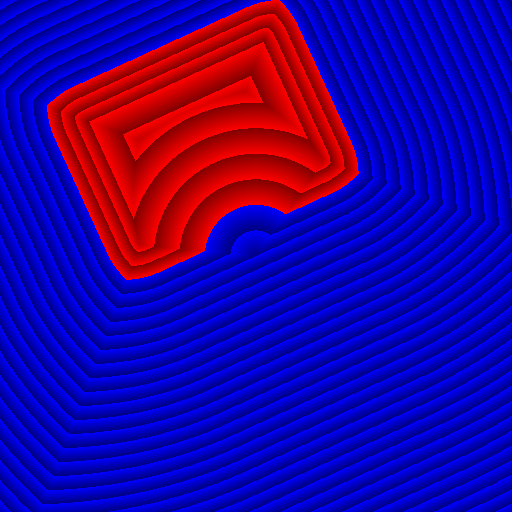
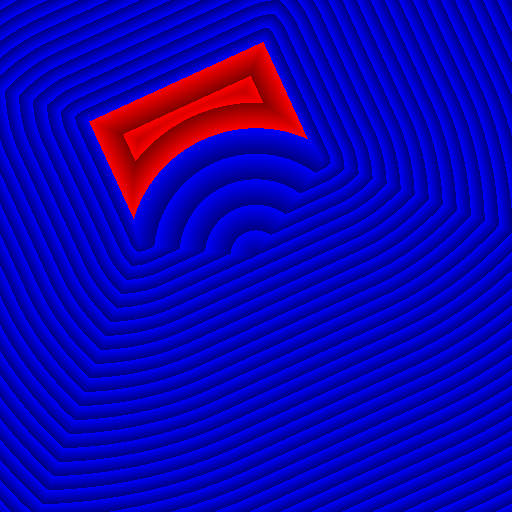
Added some stuff

Changed region(s): [[0.0938, 0.0, 0.7188, 0.5625]]

diff --git a/src/objects/operators.rs b/src/objects/operators.rs
@@ -1,7 +1,11 @@
 use math_vector::Vector;
+
+/// This operator rounds the edges of functions
 pub struct Smooth {
+    /// The SDF, that will be smoothed
     pub sdf: Box<dyn super::SignedDistanceField>,
-    pub k: f64
+    /// Smoothing factor by which the SDF will be smoothed
+    pub k: f64,
 }
 impl super::SignedDistanceField for Smooth {
     fn call(&self, p: Vector<f64>) -> f64 {
@@ -9,12 +13,13 @@ impl super::SignedDistanceField for Smooth {
     }
 }
 
+/// The operators in this module apply linear transforms to the input SDF
 pub mod transforms {
     use math_vector::Vector;
     /// Translate a SDF by p
     pub struct Translate {
         pub p: Vector<f64>,
-        pub sdf: Box<dyn super::super::SignedDistanceField>
+        pub sdf: Box<dyn super::super::SignedDistanceField>,
     }
     impl super::super::SignedDistanceField for Translate {
         fn call(&self, p: Vector<f64>) -> f64 {
@@ -29,7 +34,7 @@ pub mod transforms {
         /// The axis around which the SDF will be rotated
         pub axis: Vector<f64>,
         /// The SDF, that will be rotated
-        pub sdf: Box<dyn super::super::SignedDistanceField>
+        pub sdf: Box<dyn super::super::SignedDistanceField>,
     }
     impl super::super::SignedDistanceField for Rotate {
         fn call(&self, p: Vector<f64>) -> f64 {
@@ -37,41 +42,43 @@ pub mod transforms {
         }
     }
 
-    /// Scale a SDF by the vector 
+    /// Scale a SDF by the vector
     pub struct Scale {
         pub scale: Vector<f64>,
-        pub sdf: Box<dyn super::super::SignedDistanceField>
+        pub sdf: Box<dyn super::super::SignedDistanceField>,
     }
     impl super::super::SignedDistanceField for Scale {
         fn call(&self, p: Vector<f64>) -> f64 {
-            self.sdf.call(Vector { 
-                x: p.x * self.scale.x, 
-                y: p.y * self.scale.y, 
-                z: 0.0 
+            self.sdf.call(Vector {
+                x: p.x * self.scale.x,
+                y: p.y * self.scale.y,
+                z: 0.0,
             })
         }
     }
 
-    /// Multiplies a SDF by a matrix 
+    /// Multiplies a SDF by a matrix
     pub struct Matrix {
         pub matrix: [[f64; 2]; 2],
-        pub sdf: Box<dyn super::super::SignedDistanceField>
+        pub sdf: Box<dyn super::super::SignedDistanceField>,
     }
     impl super::super::SignedDistanceField for Matrix {
         fn call(&self, p: Vector<f64>) -> f64 {
-            self.sdf.call(Vector { 
-                x: self.matrix[0][0] * p.x + self.matrix[0][1] * p.y, 
-                y: self.matrix[1][0] * p.x + self.matrix[1][1] * p.y, 
-                z: 0.0 
+            self.sdf.call(Vector {
+                x: self.matrix[0][0] * p.x + self.matrix[0][1] * p.y,
+                y: self.matrix[1][0] * p.x + self.matrix[1][1] * p.y,
+                z: 0.0,
             })
         }
     }
 }
 
+/// Use boolean logic operators on SDFs
 pub mod boolean {
+    /// Create a union of the SDFs (`a ∪ b`)
     pub struct Union {
         pub a: Box<dyn super::super::SignedDistanceField>,
-        pub b: Box<dyn super::super::SignedDistanceField>
+        pub b: Box<dyn super::super::SignedDistanceField>,
     }
     impl super::super::SignedDistanceField for Union {
         fn call(&self, p: math_vector::Vector<f64>) -> f64 {
@@ -79,9 +86,10 @@ pub mod boolean {
         }
     }
 
+    /// Create a intersection of the SDFs (`a ∩ b`)
     pub struct Intersection {
         pub a: Box<dyn super::super::SignedDistanceField>,
-        pub b: Box<dyn super::super::SignedDistanceField>
+        pub b: Box<dyn super::super::SignedDistanceField>,
     }
     impl super::super::SignedDistanceField for Intersection {
         fn call(&self, p: math_vector::Vector<f64>) -> f64 {
@@ -89,15 +97,13 @@ pub mod boolean {
         }
     }
 
+    /// Create the negative of a SDFs (`¬a`)
     pub struct Not {
-        pub a: Box<dyn super::super::SignedDistanceField>,
-        pub b: Box<dyn super::super::SignedDistanceField>
+        pub sdf: Box<dyn super::super::SignedDistanceField>,
     }
     impl super::super::SignedDistanceField for Not {
         fn call(&self, p: math_vector::Vector<f64>) -> f64 {
-            let a = self.a.call(p);
-            let b = self.b.call(p);
-            -a.min(-b)
+            -self.sdf.call(p)
         }
     }
 }

diff --git a/src/render/mod.rs b/src/render/mod.rs
@@ -6,19 +6,18 @@ use crate::{objects::SignedDistanceField, Domain};
 
 /// Renders a SDF into a images
 pub fn image(
-        sdf: &dyn SignedDistanceField,
-        domain: &Domain,
-        color_mapper: &dyn Fn(&f64) -> Rgb<u8> 
-    ) -> RgbImage {
-    
+    sdf: &dyn SignedDistanceField,
+    domain: &Domain,
+    color_mapper: &dyn Fn(&f64) -> Rgb<u8>,
+) -> RgbImage {
     let matrix = matrix(sdf, domain);
-    
+
     ImageBuffer::from_fn(
         domain.steps.x as u32,
         domain.steps.y as u32,
         |x: u32, y: u32| -> Rgb<u8> {
             color_mapper(matrix.get(x as usize).unwrap().get(y as usize).unwrap())
-        }
+        },
     )
 }
 
@@ -82,13 +81,12 @@ pub fn image(
 ///
 /// ```
 pub fn text(
-        sdf: &dyn SignedDistanceField, 
-        domain: &Domain,
-        text_mapper: &dyn Fn(&f64) -> char
-    ) -> String {
-   
+    sdf: &dyn SignedDistanceField,
+    domain: &Domain,
+    text_mapper: &dyn Fn(&f64) -> char,
+) -> String {
     let matrix = matrix(sdf, domain);
-    
+
     let mut s = String::new();
     for j in 0..domain.steps.y {
         for i in 0..domain.steps.x {
@@ -97,15 +95,14 @@ pub fn text(
         }
         s.push('\n');
     }
-    
-    s
 
+    s
 }
 
 /// Renders a SDF into a matrix
 pub fn matrix(sdf: &dyn SignedDistanceField, domain: &Domain) -> Vec<Vec<f64>> {
     let mut matrix = Vec::new();
-    
+
     for x in linspace(domain.p0.x, domain.p1.x, domain.steps.x) {
         matrix.push(Vec::new());
         for y in linspace(domain.p0.y, domain.p1.y, domain.steps.y) {
@@ -140,26 +137,28 @@ pub mod text_mappers {
     }
 }
 
-
-
 /// Change the style of the image render
 pub mod color_mappers {
     use image::Rgb;
     use palette::{Gradient, LinSrgb};
-    
+
     /// Turns the distance into a linear grayscale, where a distance of 0 becomes 128
     pub fn default(x: &f64) -> Rgb<u8> {
         let value = ((x + 0.5) * 256.0).floor().ceil() as u8;
         Rgb([value; 3])
     }
-    
+
     /// Maps the distance to a color on the range of red to dark red, if the distance is positive
     /// and blue to dark blue, if the distance is negative
     pub fn red_blue_repeating(x: &f64) -> Rgb<u8> {
-        let red = Gradient::new(vec![LinSrgb::new(1.0, 0.0, 0.0), LinSrgb::new(0.5, 0.0, 0.0)]);
-        let blue = Gradient::new(vec![LinSrgb::new(0.0, 0.0, 1.0), LinSrgb::new(0.0, 0.0, 0.5)]);
-        
-        
+        let red = Gradient::new(vec![
+            LinSrgb::new(1.0, 0.0, 0.0),
+            LinSrgb::new(0.5, 0.0, 0.0),
+        ]);
+        let blue = Gradient::new(vec![
+            LinSrgb::new(0.0, 0.0, 1.0),
+            LinSrgb::new(0.0, 0.0, 0.5),
+        ]);
 
         let col = {
             if *x < 0.0 {
@@ -169,7 +168,11 @@ pub mod color_mappers {
             }
         };
 
-        Rgb([(col.red * 256.0) as u8, (col.green * 256.0) as u8, (col.blue * 256.0) as u8])
+        Rgb([
+            (col.red * 256.0) as u8,
+            (col.green * 256.0) as u8,
+            (col.blue * 256.0) as u8,
+        ])
     }
 
     pub fn inside_black_outside_white(x: &f64) -> Rgb<u8> {

diff --git a/src/main.rs b/src/main.rs
@@ -1,25 +1,37 @@
 use math_vector::Vector;
 
+/// Objects and tools that are useful for working with objects
 pub mod objects;
+
+/// Renderers and tools that are useful for working with renderers
 pub mod render;
 
 fn main() {
-    let sdf = objects::operators::Smooth {
+    let sdf = objects::operators::Smooth { 
         sdf: Box::new(objects::operators::boolean::Not {
-            b: Box::new(objects::operators::transforms::Rotate {
-                alpha: 2.0,
-                axis: Vector { x: 0.0, y: 0.0, z: 1.0 },
-                sdf: Box::new(objects::operators::transforms::Translate { 
-                    p: Vector { x: 5.0, y: 0.0, z: 0.0 }, 
-                    sdf: Box::new(objects::primitives::Rectangle {
-                        w: 5.0,
-                        h: 7.5
-                    }) 
-                })
-            }),
-            a: Box::new(objects::primitives::Circle { r: 5.0 })
+            sdf: Box::new(objects::operators::boolean::Union {
+                a: Box::new(objects::operators::boolean::Not {
+                    sdf: Box::new(objects::operators::transforms::Rotate {
+                        alpha: 2.0,
+                        axis: Vector {
+                            x: 0.0,
+                            y: 0.0,
+                            z: 1.0,
+                        },
+                        sdf: Box::new(objects::operators::transforms::Translate {
+                            p: Vector {
+                                x: 5.0,
+                                y: 0.0,
+                                z: 0.0,
+                            },
+                            sdf: Box::new(objects::primitives::Rectangle { w: 5.0, h: 7.5 }),
+                        }),
+                    }),
+                }),
+                b: Box::new(objects::primitives::Circle { r: 5.0 }),
+            })
         }),
-        k: 3.0
+        k: 0.0
     };
     // let sdf = objects::primitives::Rectangle{w:5.0, h:6.0};
     let text = render::text(
@@ -35,12 +47,15 @@ fn main() {
                 y: 10.0,
                 z: 0.0,
             },
-            steps: Vector { x: 100, y: 50, z: 0 },
+            steps: Vector {
+                x: 100,
+                y: 50,
+                z: 0,
+            },
         },
-        &render::text_mappers::fill_inside
+        &render::text_mappers::fill_inside,
     );
     println!("{text}");
-    
 
     let img = render::image(
         &sdf,
@@ -55,14 +70,19 @@ fn main() {
                 y: 10.0,
                 z: 0.0,
             },
-            steps: Vector { x: 512, y: 512, z: 0 },
+            steps: Vector {
+                x: 512,
+                y: 512,
+                z: 0,
+            },
         },
-        &render::color_mappers::red_blue_repeating
+        &render::color_mappers::red_blue_repeating,
     );
 
     img.save("render.png").unwrap();
 }
 
+/// A rectangular space from which points can be samples
 pub struct Domain {
     p0: Vector<f64>,
     p1: Vector<f64>,

diff --git a/src/objects/primitives.rs b/src/objects/primitives.rs
@@ -1,33 +1,39 @@
 use math_vector::Vector;
 
-/// SDF for rectangle
+/// SDF of a rectangle
 pub struct Rectangle {
-    /// Width of the rectangle
+    /// Width
     pub w: f64,
-    /// Height of the rectangle
-    pub h: f64
+    /// Height
+    pub h: f64,
 }
 impl super::SignedDistanceField for Rectangle {
     fn call(&self, p: Vector<f64>) -> f64 {
-        let half_size = Vector { x: 0.5 * self.w , y: 0.5 * self.h, z: 0.0 };
+        let half_size = Vector {
+            x: 0.5 * self.w,
+            y: 0.5 * self.h,
+            z: 0.0,
+        };
         let component_wise_edge_distance = Vector {
             x: p.x.abs() - half_size.x,
             y: p.y.abs() - half_size.y,
-            z: 0.0
+            z: 0.0,
         };
         let outside_distance = Vector {
             x: component_wise_edge_distance.x.max(0.0),
             y: component_wise_edge_distance.y.max(0.0),
-            z: 0.0
-        }.length();
-        let inside_distance = component_wise_edge_distance.x.max(component_wise_edge_distance.y);
-         
+            z: 0.0,
+        }
+        .length();
+        let inside_distance = component_wise_edge_distance
+            .x
+            .max(component_wise_edge_distance.y);
+
         let distance = outside_distance + inside_distance;
 
         distance
     }
 }
-
 
 /// SDF for a circle
 pub struct Circle {

diff --git a/src/objects/mod.rs b/src/objects/mod.rs
@@ -1,9 +1,13 @@
 use math_vector::Vector;
 
+/// Trait that every SDF must implement
 pub trait SignedDistanceField {
+    /// This is the function that returns the distance for a point
     fn call(&self, p: Vector<f64>) -> f64;
 }
 
-pub mod operators; 
+/// Combine, change, develop SDFs
+pub mod operators;
 
-pub mod primitives; 
+/// Primitive shapes
+pub mod primitives;
